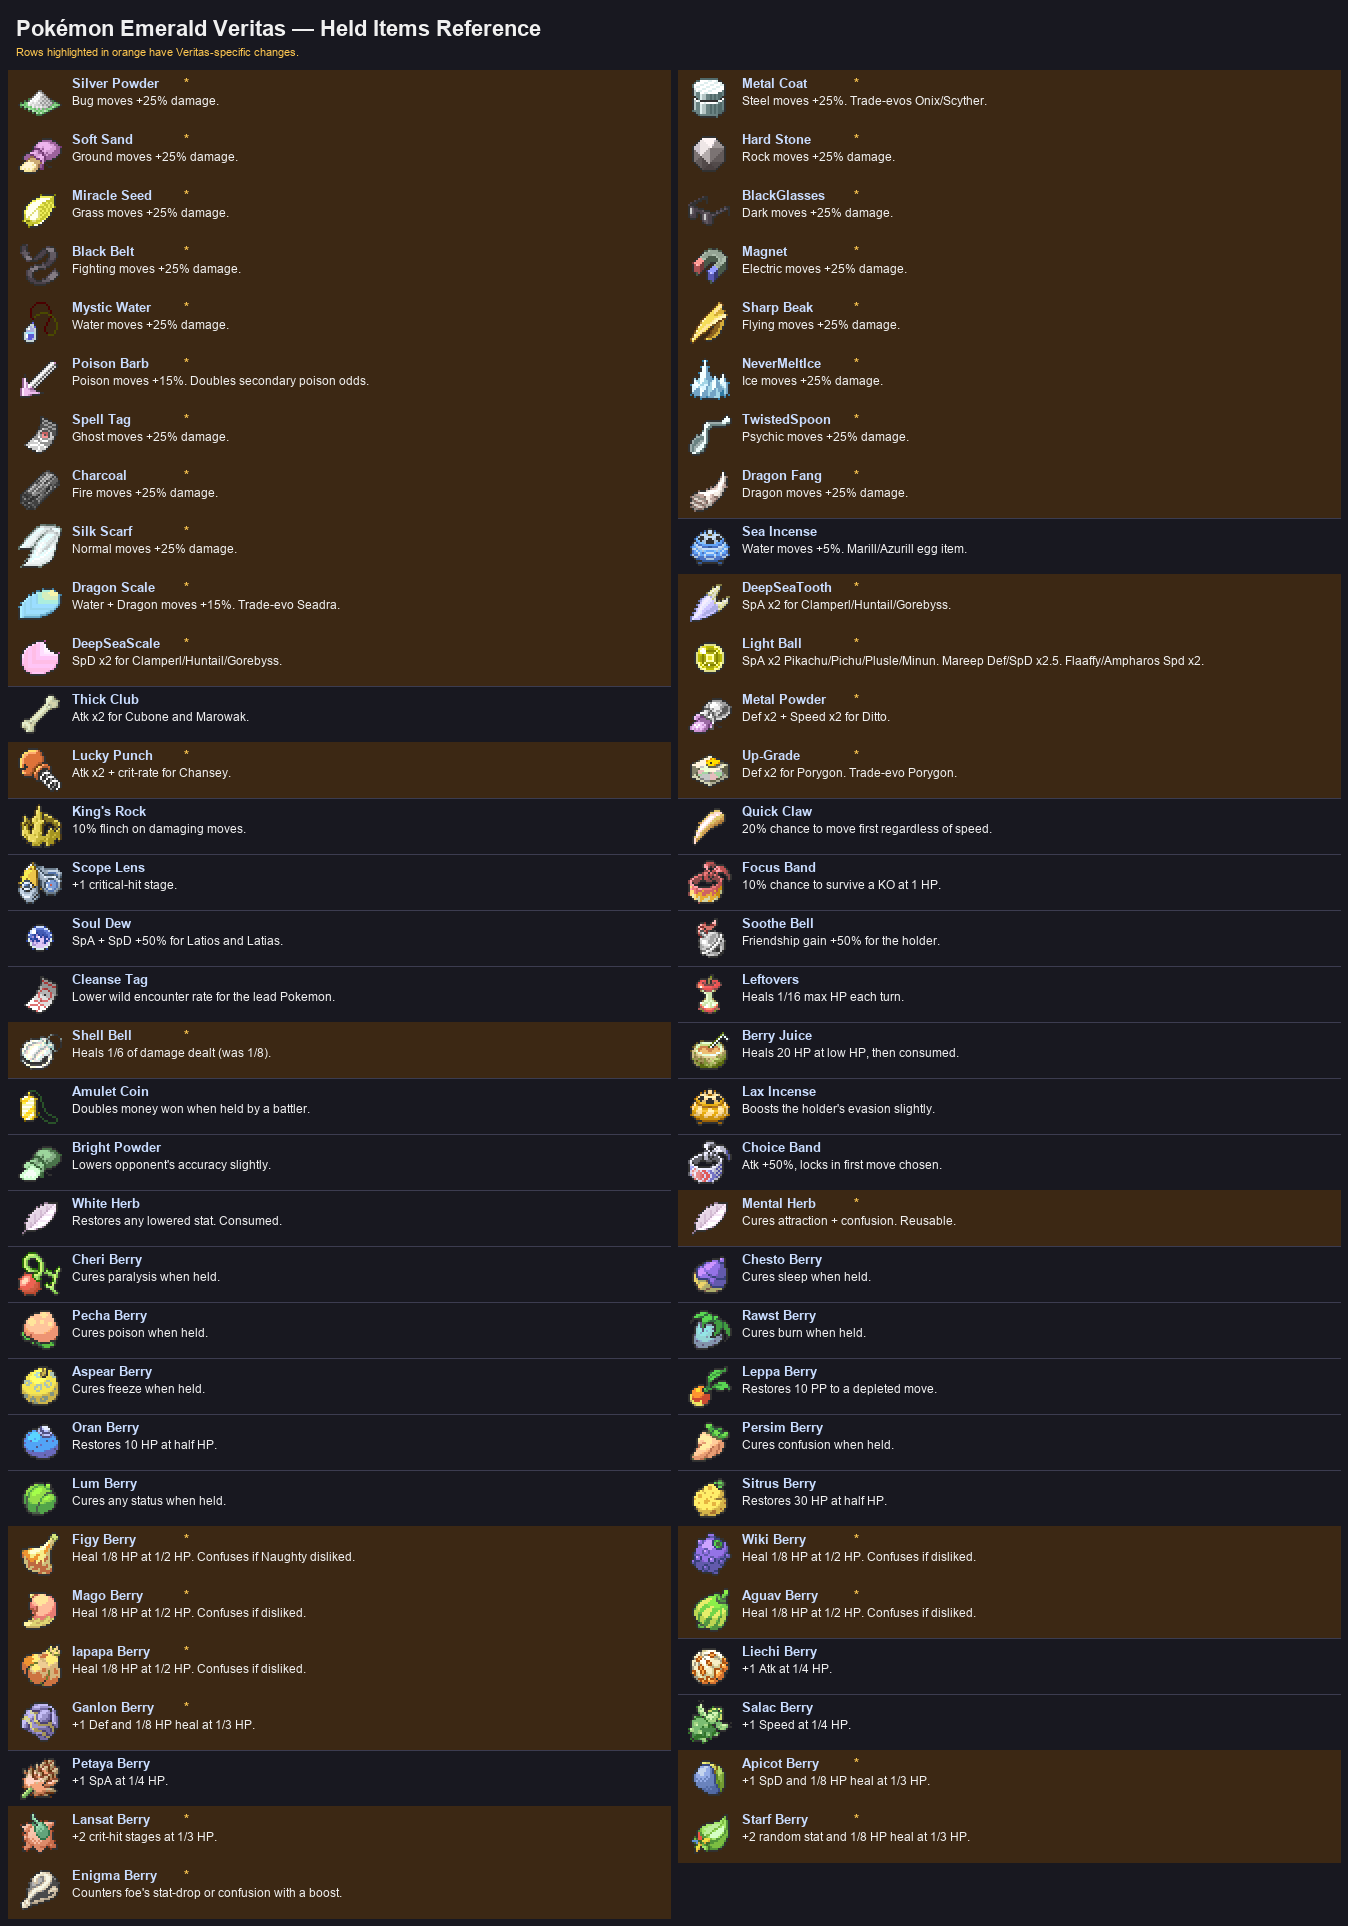
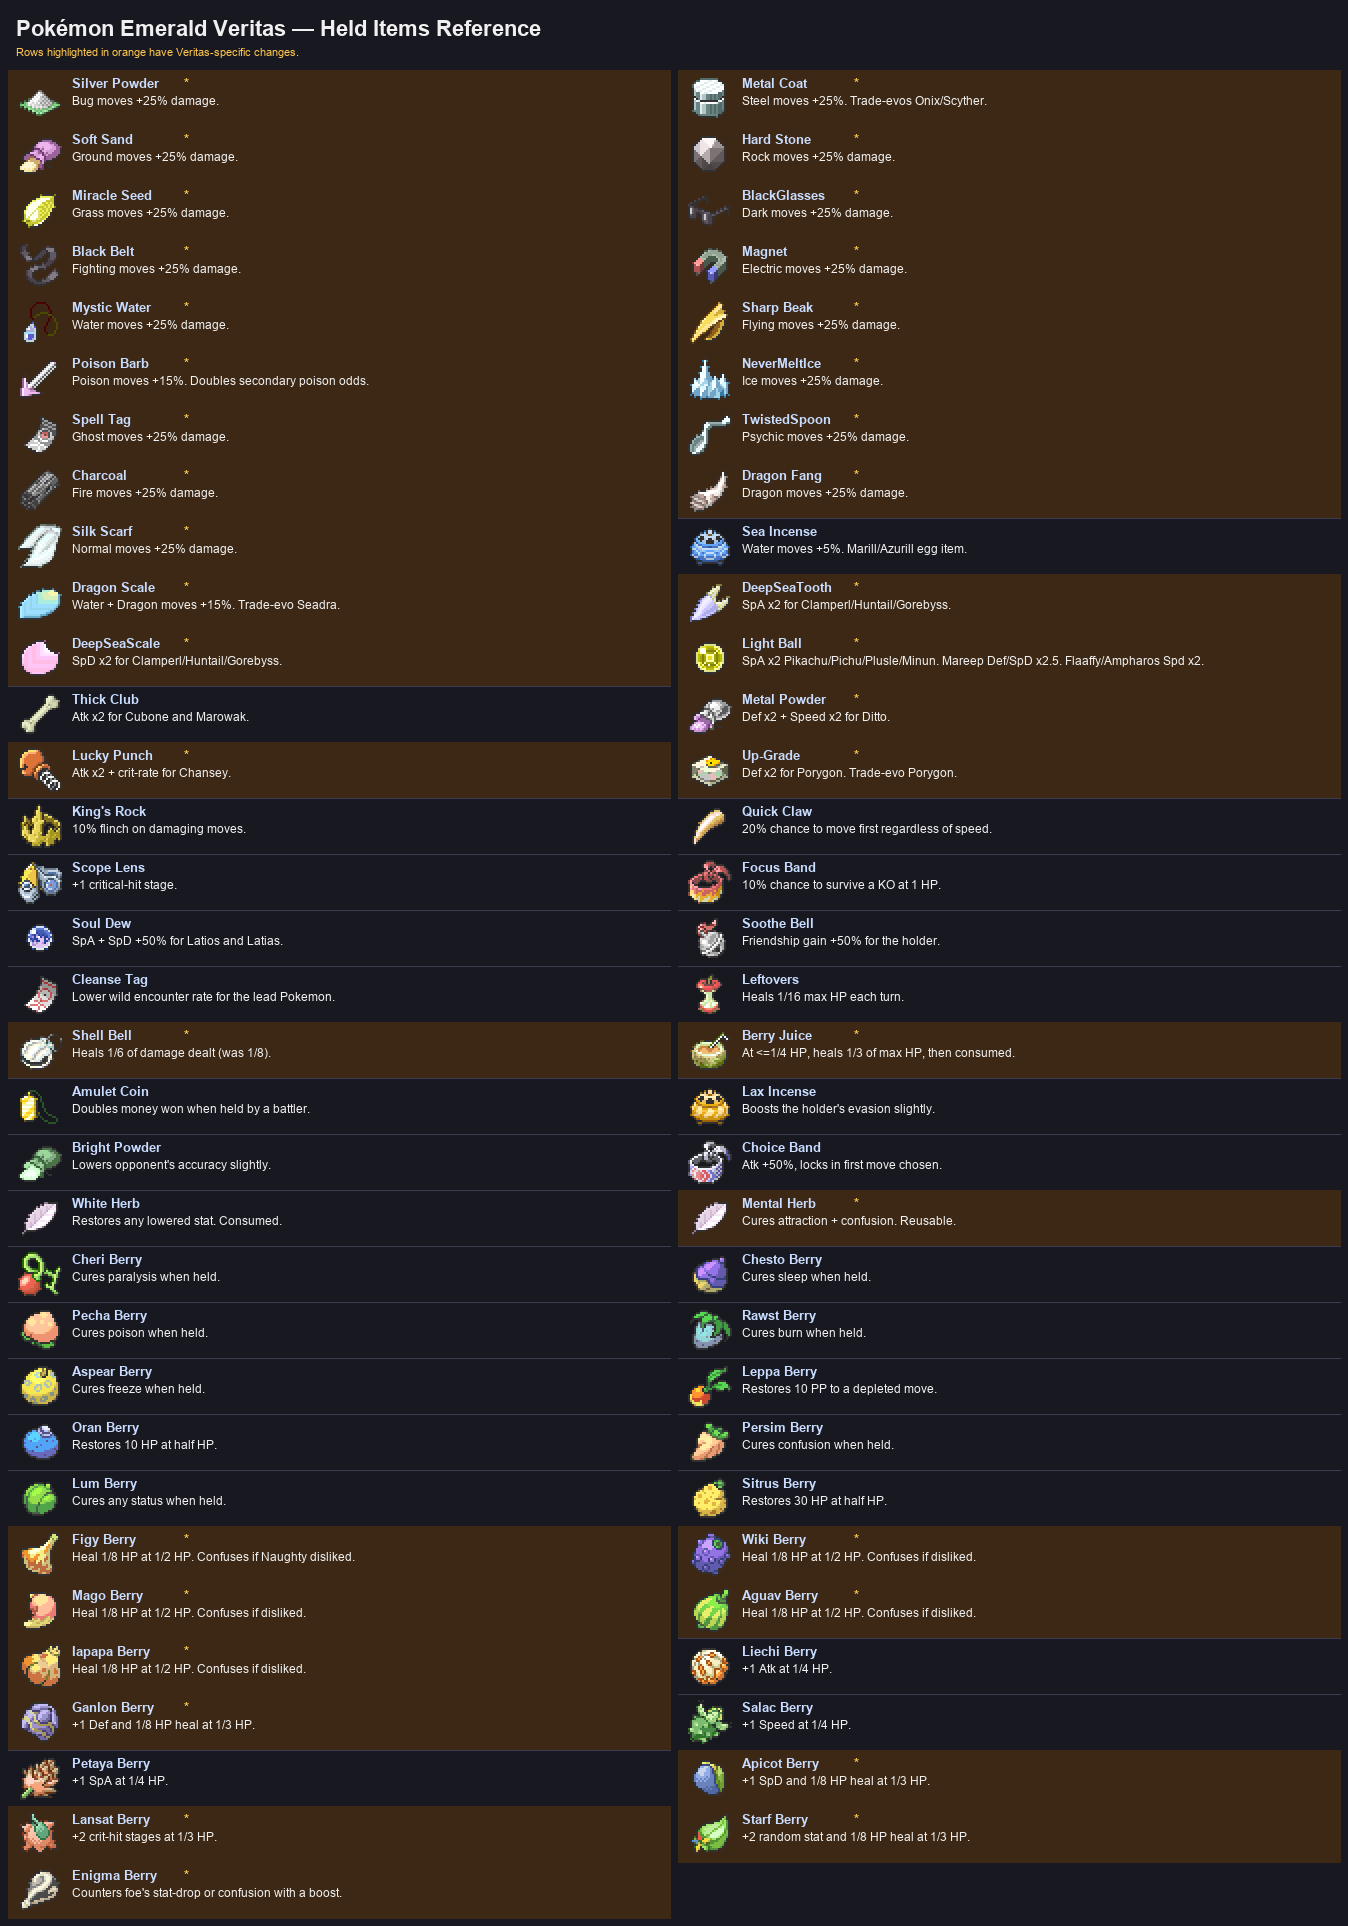
Berry Juice: trigger at 1/4 HP, restore 1/3 of max HP
Vanilla Berry Juice fired at half HP for a flat 20 HP heal — fine for
the level-5 Igglybuff that comes with one, useless after midgame. Now
fires only at quarter HP but restores a third of max, so it scales
with the holder.

Implementation special-cases gBattleMons[battler].item == ITEM_BERRY_JUICE
inside the HOLD_EFFECT_RESTORE_HP branch. Oran Berry shares the same
hold effect and is left untouched (still 1/2 trigger, flat heal). Heal
amount clamps to maxHP, never to 0.

Changed region(s): [[0.4985, 0.5296, 0.997, 0.5607]]

diff --git a/src/battle_util.c b/src/battle_util.c
@@ -3593,7 +3593,24 @@ u8 ItemBattleEffects(u8 caseID, u8 battlerId, bool8 moveTurn)
             switch (battlerHoldEffect)
             {
             case HOLD_EFFECT_RESTORE_HP:
-                if (gBattleMons[battlerId].hp <= gBattleMons[battlerId].maxHP / 2 && !moveTurn)
+                // Veritas: Berry Juice triggers later (HP <= 1/4 of max instead
+                // of 1/2) but heals 1/3 of max HP instead of a flat 20. Keeps
+                // Oran Berry untouched since it shares HOLD_EFFECT_RESTORE_HP.
+                if (gBattleMons[battlerId].item == ITEM_BERRY_JUICE)
+                {
+                    if (gBattleMons[battlerId].hp <= gBattleMons[battlerId].maxHP / 4 && !moveTurn)
+                    {
+                        gBattleMoveDamage = gBattleMons[battlerId].maxHP / 3;
+                        if (gBattleMoveDamage == 0)
+                            gBattleMoveDamage = 1;
+                        if (gBattleMons[battlerId].hp + gBattleMoveDamage > gBattleMons[battlerId].maxHP)
+                            gBattleMoveDamage = gBattleMons[battlerId].maxHP - gBattleMons[battlerId].hp;
+                        gBattleMoveDamage *= -1;
+                        BattleScriptExecute(BattleScript_ItemHealHP_RemoveItem);
+                        effect = ITEM_HP_CHANGE;
+                    }
+                }
+                else if (gBattleMons[battlerId].hp <= gBattleMons[battlerId].maxHP / 2 && !moveTurn)
                 {
                     gBattleMoveDamage = battlerHoldEffectParam;
                     if (gBattleMons[battlerId].hp + battlerHoldEffectParam > gBattleMons[battlerId].maxHP)

diff --git a/tools/held_items_table.py b/tools/held_items_table.py
@@ -115,8 +115,8 @@ ITEMS = [
                             "Restes",         "Soigne 1/16 PV max chaque tour.",                      False),
     ("ITEM_SHELL_BELL",     "Shell Bell",     "Heals 1/6 of damage dealt (was 1/8).",
                             "Grelot Coque",   "Soigne 1/6 des dégâts infligés (était 1/8).",          True),
-    ("ITEM_BERRY_JUICE",    "Berry Juice",    "Heals 20 HP at low HP, then consumed.",
-                            "Jus de Baie",    "Soigne 20 PV en danger, puis consommé.",               False),
+    ("ITEM_BERRY_JUICE",    "Berry Juice",    "At <=1/4 HP, heals 1/3 of max HP, then consumed.",
+                            "Jus de Baie",    "À <=1/4 PV, soigne 1/3 des PV max, puis consommé.",    True),
     ("ITEM_AMULET_COIN",    "Amulet Coin",    "Doubles money won when held by a battler.",
                             "Pièce Rune",     "Double l'argent gagné si tenu par un combattant.",     False),
     ("ITEM_LAX_INCENSE",    "Lax Incense",    "Boosts the holder's evasion slightly.",

diff --git a/src/data/text/item_descriptions.h b/src/data/text/item_descriptions.h
@@ -211,9 +211,9 @@ static const u8 sWhiteFluteDesc[] = _(
     "lures wild POKéMON.");
 
 static const u8 sBerryJuiceDesc[] = _(
-    "A 100% pure juice\n"
-    "that restores HP\n"
-    "by 20 points.");
+    "At 1/4 HP, restores\n"
+    "1/3 of max HP, then\n"
+    "is consumed.");
 
 static const u8 sSacredAshDesc[] = _(
     "Fully revives and\n"

diff --git a/README.md b/README.md
@@ -461,6 +461,10 @@ See `docs/MINIGAMES_REWARDS.md` for full reward tables and details.
 * **Ganlon**, **Apicot**, and **Starf** also **heal 1/8 max HP** when they trigger, in addition to their stat-up effect
 * Liechi/Salac/Petaya keep the vanilla 1/4 threshold and stat-only effect
 
+#### Berry Juice Rework
+
+* Berry Juice now triggers at **HP ≤ 1/4** (vanilla 1/2) and restores **1/3 of max HP** (vanilla flat 20). Scales with the holder instead of being a chip heal at endgame, but waits longer to fire
+
 #### Enigma Berry Effect
 
 The vanilla Enigma Berry was an inert e-Reader item with no effect on a fresh save. In Veritas it has a fixed counter-effect against opposing pressure:
